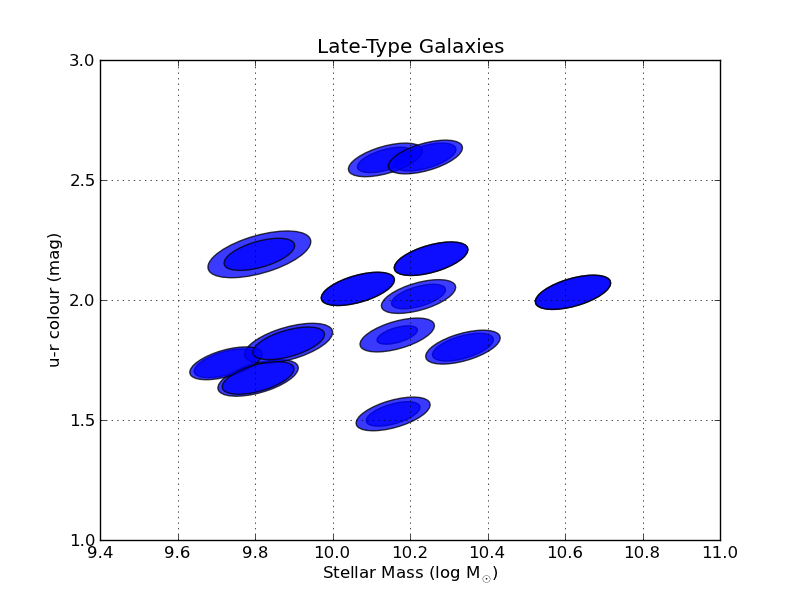
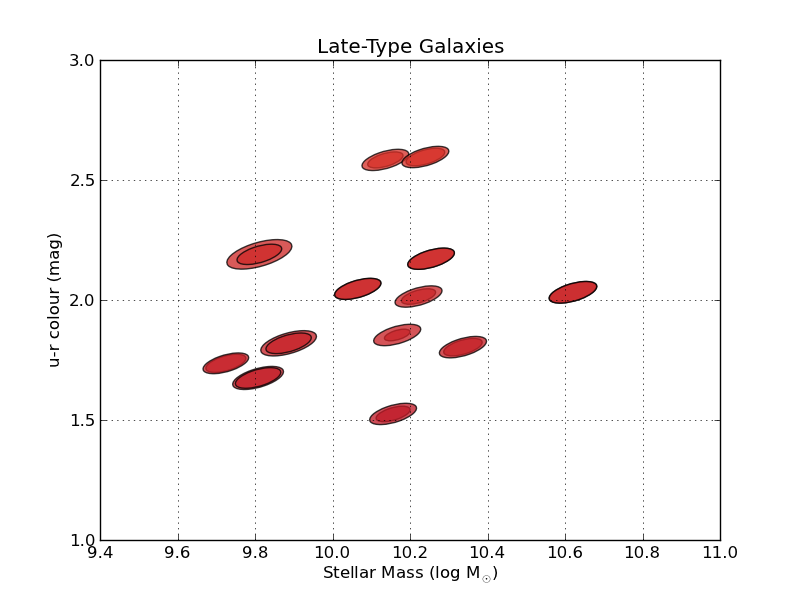
square plot, created a colourmap but not properly working yet

diff --git a/examples/theodyssey.py b/examples/theodyssey.py
@@ -20,6 +20,8 @@ odyssey_array = numpy.loadtxt('The_Odyssey_g-r_GIM2D.txt')
 # Extract useful data from table
 ra = odyssey_array[:,14]
 dec = odyssey_array[:,15]
+gmag = odyssey_array[:,5]
+rmag = odyssey_array[:,6]
 scale_kpc_arcsec = odyssey_array[:,4]
 bulge_Re_kpc = odyssey_array[:,8]       # semi-major axis: a
 bulge_e = odyssey_array[:,9]            # ellipticity: e = 1 - b/a = 1 - q
@@ -35,6 +37,9 @@ disk_phi = odyssey_array[:,13]
 # define PI
 PI = 3.14159265359
 
+# magnitude
+grmag = gmag - rmag
+
 # axis ratio
 bulge_q = 1.0 - bulge_e
 
@@ -43,17 +48,18 @@ bulge_Re_arcsec = bulge_Re_kpc / scale_kpc_arcsec
 bulge_size = PI * bulge_q * bulge_Re_arcsec * bulge_Re_arcsec
 
 # disk area in arcsec
-disk_Rd_arcsec = disk_Rd_kpc / scale_kpc_arcsec
-disk_size = PI * disk_Rd_arcsec * disk_Rd_arcsec
+disk_Re_kpc = 1.678 * disk_Rd_kpc
+disk_Re_arcsec = disk_Re_kpc / scale_kpc_arcsec
+disk_size = PI * disk_Re_arcsec * disk_Re_arcsec
 # ----------------------------------------------------------------------
 
 # Create bulges, disks and halo dictionaries. Initialise them in Galtoons
 
-mybulges = {'name':'bulge', 'x':-ra, 'y':dec, 'size':bulge_size, 'phi':bulge_phi, 'q':bulge_q, 'colour':["blue" for i in range(len(ra))]}
-mydisks = {'name':'disk', 'x':-ra, 'y':dec, 'size':disk_size, 'phi':disk_phi}
+mybulges = {'name':'bulge', 'x':-ra, 'y':dec, 'size':bulge_size, 'phi':bulge_phi, 'q':bulge_q, 'colour':grmag}  #["orange" for i in range(len(ra))]}
+mydisks = {'name':'disk', 'x':-ra, 'y':dec, 'size':disk_size, 'phi':disk_phi, 'colour':grmag}
 
 # Instantiate the Galtoons object, mytoons
-mytoons = toons.Galtoons(bulges=mybulges,disks=mydisks,halos=None)
+mytoons = toons.Galtoons(halos=None, disks=mydisks, bulges=mybulges)
 
 
 # ----------------------------------------------------------------------
@@ -63,15 +69,20 @@ mytoons = toons.Galtoons(bulges=mybulges,disks=mydisks,halos=None)
 # Create the plot
 
 # Plot u-r vs stellar mass
-ax = plt.subplot(111)
+ax = plt.subplot(111, aspect='equal')
 
 # Plot toons
 mytoons.plot_toons()
 
+# Plot The Odyssey
+plt.plot(-248.08737, 19.82660, 'or')
+plt.text(-248.08737, 19.82660, 'The Odyssey')
 # ----------------------------------------------------------------------
 # Make the plot nice:
+
 ax.set_xlim(-247.5,-248.7)
 ax.set_ylim(19.2,20.4)
+#plt.colorbar()
 plt.xlabel('RA (arcsec)')
 plt.ylabel('DEC (arcsec)')
 plt.title('The Odyssey')

diff --git a/toons/blobs.py b/toons/blobs.py
@@ -4,6 +4,8 @@
 import pylab as plt
 import numpy as np
 import math
+import matplotlib.colors as col
+import matplotlib.cm as cm
 from matplotlib.patches import Ellipse
 
 # ======================================================================
@@ -90,6 +92,18 @@ class Blobs(object):
 
 # ----------------------------------------------------------------------
 
+# Creates a colour map of realistic galaxy colours
+    def define_cmap(self):
+        
+        blue = '#134FA5'
+        white = '#FCE0F4'
+        orange = '#D47512'
+        red = '#851B1D'
+        self.galaxy = col.LinearSegmentedColormap.from_list('galaxy_cmap', [blue, white, orange, red])
+        cm.register_cmap(name='galaxy_cmap', cmap=self.galaxy)    
+
+# ----------------------------------------------------------------------
+
 # Define the parameters for the blobs      
     def set_parameters(self,pars):
 
@@ -139,9 +153,10 @@ class Blobs(object):
             else:
                 self.size = [4 for i in range(len(self.x))]
         
-            # colour of blob        
+            # colour of blob, convert to decimal value to map to colour       
             if 'colour' in pars:
-                self.colour = pars['colour']
+                self.colour_dec = self.percentdata(pars['colour'])
+                self.colour = cm.RdYlBu(self.colour_dec)
             else:
                 self.colour = ["cyan" for i in range(len(self.x))]
 
@@ -180,7 +195,7 @@ class Blobs(object):
         PI = 3.14159265359
        
         # work out appropriate size for the toons
-        scale = 0.25 / self.magdata(blob['size'])
+        scale = 0.1 / self.magdata(blob['size'])
            
         # plot on the current axes
         ax = plt.gca()

diff --git a/examples/bulgelessdisks.py b/examples/bulgelessdisks.py
@@ -40,8 +40,8 @@ diskmass = totalmass - bulgemass
 
 # Create bulges, disks and halo dictionaries. Initialise them in Galtoons
 
-mybulges = {'name':'bulge', 'x':totalmass, 'y':urcolour, 'size':bulgemass, 'brightness':agnbolometricluminosity}
-mydisks = {'name':'disk', 'x':totalmass, 'y':urcolour, 'size':diskmass, 'brightness':agnbolometricluminosity}
+mybulges = {'name':'bulge', 'x':totalmass, 'y':urcolour, 'size':bulgemass, 'brightness':agnbolometricluminosity, 'colour':urcolour}
+mydisks = {'name':'disk', 'x':totalmass, 'y':urcolour, 'size':diskmass, 'brightness':agnbolometricluminosity, 'colour':urcolour}
 
 # Instantiate the Galtoons object, mytoons
 mytoons = toons.Galtoons(bulges=mybulges,disks=mydisks,halos=None)

diff --git a/toons/galtoons.py b/toons/galtoons.py
@@ -36,11 +36,11 @@ class Galtoons(object):
 
 # Initiate the Galtoons class - make bulge, disk and halo Blob objects
 
-    def __init__(self, bulges=None, disks=None, halos=None):        
+    def __init__(self, halos=None, disks=None, bulges=None):        
         self.hello = "galtoons says 'hello there'"
 
 # Phil's more compact version:
-        self.components = {'bulges':Blobs(bulges), 'disks':Blobs(disks), 'halos':Blobs(halos)}
+        self.components = {'halos':Blobs(halos), 'adisks':Blobs(disks), 'bulges':Blobs(bulges)}
 
 # -----------------------------------------------------------------------
 
